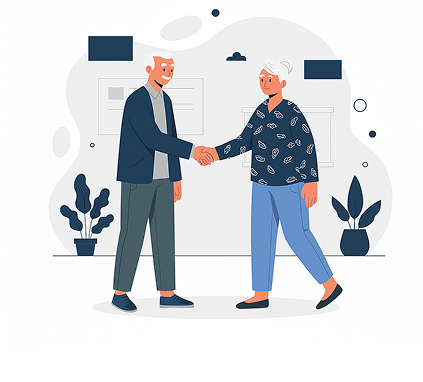
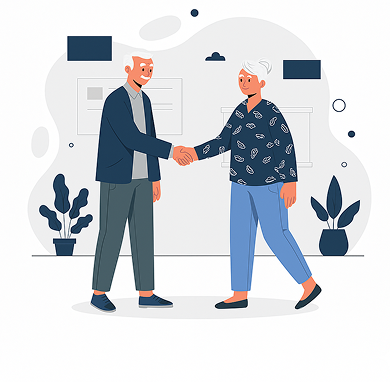
feat: adiciona a tela de entrada para perfis cadastrado como idosos

diff --git a/app/lib/features/home/presentation/pages/splash_screen.dart b/app/lib/features/home/presentation/pages/splash_screen.dart
@@ -1,0 +1,153 @@
+import 'dart:math';
+import 'package:flutter/material.dart';
+
+class SplashScreen extends StatefulWidget {
+  const SplashScreen({super.key});
+
+  @override
+  State<SplashScreen> createState() => _SplashScreenState();
+}
+
+class _SplashScreenState extends State<SplashScreen> {
+  late String _fraseSorteada;
+
+  final List<String> _frasesAcolhedoras = [
+    "Crie novos laços. Compartilhe alegria.",
+    "Cada conversa é uma nova oportunidade de sorrir.",
+    "Conecte-se com quem faz o seu dia mais feliz.",
+    "Histórias incríveis esperam por você hoje.",
+    "O carinho e a amizade estão a um toque de distância.",
+    "Cultive momentos especiais todos os dias.",
+  ];
+
+  @override
+  void initState() {
+    super.initState();
+    _sortearFrase();
+  }
+
+  void _sortearFrase() {
+    final random = Random();
+    setState(() {
+      _fraseSorteada = _frasesAcolhedoras[random.nextInt(_frasesAcolhedoras.length)];
+    });
+  }
+
+  void _navegarParaHome() {
+    Navigator.pushReplacementNamed(context, '/elderly-home');
+  }
+
+  @override
+  Widget build(BuildContext context) {
+    return Scaffold(
+      backgroundColor: Colors.white,
+      body: SafeArea(
+        bottom: false,
+        child: Column(
+          children: [
+            Padding(
+              padding: const EdgeInsets.only(left: 16.0, right: 24.0, top: 12.0, bottom: 8.0),
+              child: Align(
+                alignment: Alignment.centerLeft,
+                child: Image.asset(
+                  'assets/logos/logo_with_name.png',
+                  height: 50,
+                  fit: BoxFit.contain,
+                  errorBuilder: (context, error, stackTrace) => const SizedBox(height: 50),
+                ),
+              ),
+            ),
+            Expanded(
+              flex: 6,
+              child: Image.asset(
+                'assets/images/elderly/welcome_image.png',
+                fit: BoxFit.cover,
+                width: double.infinity,
+              ),
+            ),
+            Expanded(
+              flex: 6,
+              child: Container(
+                width: double.infinity,
+                decoration: const BoxDecoration(
+                  color: Color(0xFF033B63),
+                  borderRadius: BorderRadius.only(
+                    topLeft: Radius.circular(36.0),
+                    topRight: Radius.circular(36.0),
+                  ),
+                ),
+                padding: const EdgeInsets.only(left: 28.0, right: 28.0, top: 28.0, bottom: 16.0),
+                child: Column(
+                  mainAxisAlignment: MainAxisAlignment.spaceBetween,
+                  children: [
+                    const Text(
+                      'Redescubra o prazer\nde estar junto',
+                      textAlign: TextAlign.center,
+                      style: TextStyle(
+                        fontFamily: 'Quicksand',
+                        color: Colors.white,
+                        fontSize: 22,
+                        fontWeight: FontWeight.bold,
+                        height: 1.2,
+                      ),
+                    ),
+                    Text(
+                      _fraseSorteada,
+                      textAlign: TextAlign.center,
+                      style: const TextStyle(
+                        fontFamily: 'Raleway',
+                        color: Color(0xFFFFFFFF),
+                        fontSize: 15,
+                        fontWeight: FontWeight.w300,
+                      ),
+                    ),
+                    const SizedBox(height: 8),
+                    SizedBox(
+                      width: double.infinity,
+                      height: 44,
+                      child: ElevatedButton(
+                        onPressed: _navegarParaHome,
+                        style: ElevatedButton.styleFrom(
+                          backgroundColor: const Color(0xFF1F5A84),
+                          elevation: 0,
+                          shape: RoundedRectangleBorder(
+                            borderRadius: BorderRadius.circular(16.0),
+                          ),
+                        ),
+                        child: Row(
+                          mainAxisAlignment: MainAxisAlignment.center,
+                          children: [
+                            const Text(
+                              'Começar',
+                              style: TextStyle(
+                                fontFamily: 'Quicksand',
+                                color: Colors.white,
+                                fontSize: 20,
+                                fontWeight: FontWeight.w600,
+                              ),
+                            ),
+                            const SizedBox(width: 12),
+                            Image.asset(
+                              'assets/images/elderly/start_arrow.png',
+                              height: 28,
+                              width: 28,
+                              errorBuilder: (context, error, stackTrace) => const Icon(
+                                Icons.arrow_forward,
+                                color: Colors.white,
+                                size: 24,
+                              ),
+                            ),
+                          ],
+                        ),
+                      ),
+                    ),
+                  ],
+                ),
+              ),
+            ),
+          ],
+        ),
+      ),
+    );
+  }
+}

diff --git a/app/lib/features/login/presentation/pages/login_page.dart b/app/lib/features/login/presentation/pages/login_page.dart
@@ -70,15 +70,12 @@ class _LoginPageState extends State<LoginPage> {
         );
       }
 
-      // Mapeia a coleção correspondente ao perfil marcado na tela
       final String primaryCollection =
           _profile == LoginProfile.usuario ? 'idosos' : 'familiares';
 
-      // 1. Busca na coleção primária baseada na seleção
       DocumentSnapshot<Map<String, dynamic>> userDoc =
           await FirebaseFirestore.instance.collection(primaryCollection).doc(uid).get();
 
-      // 2. Se não encontrar, faz fallback para as coleções alternativas
       if (!userDoc.exists) {
         final String secondaryCollection =
             _profile == LoginProfile.usuario ? 'users' : 'idosos';
@@ -88,7 +85,6 @@ class _LoginPageState extends State<LoginPage> {
             .get();
       }
 
-      // 3. Fallback final para 'users' caso não tenha achado antes
       if (!userDoc.exists) {
         userDoc = await FirebaseFirestore.instance.collection('users').doc(uid).get();
       }
@@ -101,21 +97,18 @@ class _LoginPageState extends State<LoginPage> {
 
       final userData = userDoc.data()!;
 
-      // Busca o tipo de conta verificando os campos mais comuns e normaliza para minúsculo
       final String rawRole = (userData['role'] ??
                               userData['tipo'] ??
                               userData['perfil'] ??
                               userData['accountType'] ??
                               '').toString().toLowerCase().trim();
 
-      // Normaliza a verificação aceitando 'idoso' ou 'usuario'
       final bool isElderlyRole = rawRole == 'idoso' || rawRole == 'usuario';
       final bool isFamilyRole = rawRole == 'familiar';
 
       final bool isSelectedElderly = _profile == LoginProfile.usuario;
       final bool isSelectedFamily = _profile == LoginProfile.familiar;
 
-      // Validação do perfil selecionado com o cadastrado no Firestore
       final bool isProfileValid = (isSelectedElderly && isElderlyRole) ||
                                   (isSelectedFamily && isFamilyRole);
 
@@ -128,7 +121,7 @@ class _LoginPageState extends State<LoginPage> {
       if (!mounted) return;
 
       final targetRoute = isSelectedElderly
-          ? AppRoutes.elderlyHome
+          ? AppRoutes.splashScreen
           : AppRoutes.familyHome;
 
       Navigator.pushNamedAndRemoveUntil(context, targetRoute, (route) => false);
@@ -280,7 +273,6 @@ class _LoginPageState extends State<LoginPage> {
                 ),
               ),
               const SizedBox(height: 24),
-
               Column(
                 crossAxisAlignment: CrossAxisAlignment.start,
                 children: [
@@ -325,7 +317,6 @@ class _LoginPageState extends State<LoginPage> {
                             return null;
                           },
                         ),
-                        
                         _buildInput(
                           label: 'Senha',
                           hint: 'Digite sua senha',
@@ -352,7 +343,6 @@ class _LoginPageState extends State<LoginPage> {
                           },
                         ),
                         const SizedBox(height: 8),
-
                         MouseRegion(
                           cursor: SystemMouseCursors.click,
                           child: GestureDetector(
@@ -386,7 +376,6 @@ class _LoginPageState extends State<LoginPage> {
                           ),
                         ),
                         const SizedBox(height: 24),
-
                         SizedBox(
                           height: 52,
                           child: ElevatedButton(
@@ -423,7 +412,6 @@ class _LoginPageState extends State<LoginPage> {
                 ],
               ),
               const SizedBox(height: 22),
-
               MouseRegion(
                 cursor: SystemMouseCursors.click,
                 child: GestureDetector(

diff --git a/app/lib/core/routes/app_routes.dart b/app/lib/core/routes/app_routes.dart
@@ -4,12 +4,14 @@ import '../../features/home/presentation/pages/family_home_page.dart';
 import '../../features/login/presentation/pages/forgot_password_page.dart';
 import '../../features/login/presentation/pages/login_page.dart';
 import '../../features/signup/presentation/pages/signup_page.dart';
+import '../../features/home/presentation/pages/splash_screen.dart';
 
 class AppRoutes {
   static const String home = '/';
   static const String login = '/login';
   static const String signup = SignupPage.routeName;
   static const String recoverPassword = '/recover-password';
+  static const String splashScreen = '/splash';
   static const String elderlyHome = '/elderly-home';
   static const String familyHome = '/family-home';
 
@@ -19,6 +21,7 @@ class AppRoutes {
       login: (context) => const LoginPage(),
       signup: (context) => const SignupPage(),
       recoverPassword: (context) => const ForgotPasswordPage(),
+      splashScreen: (context) => const SplashScreen(),
       elderlyHome: (context) => const ElderlyHomePage(),
       familyHome: (context) => const FamilyHomePage(),
     };
